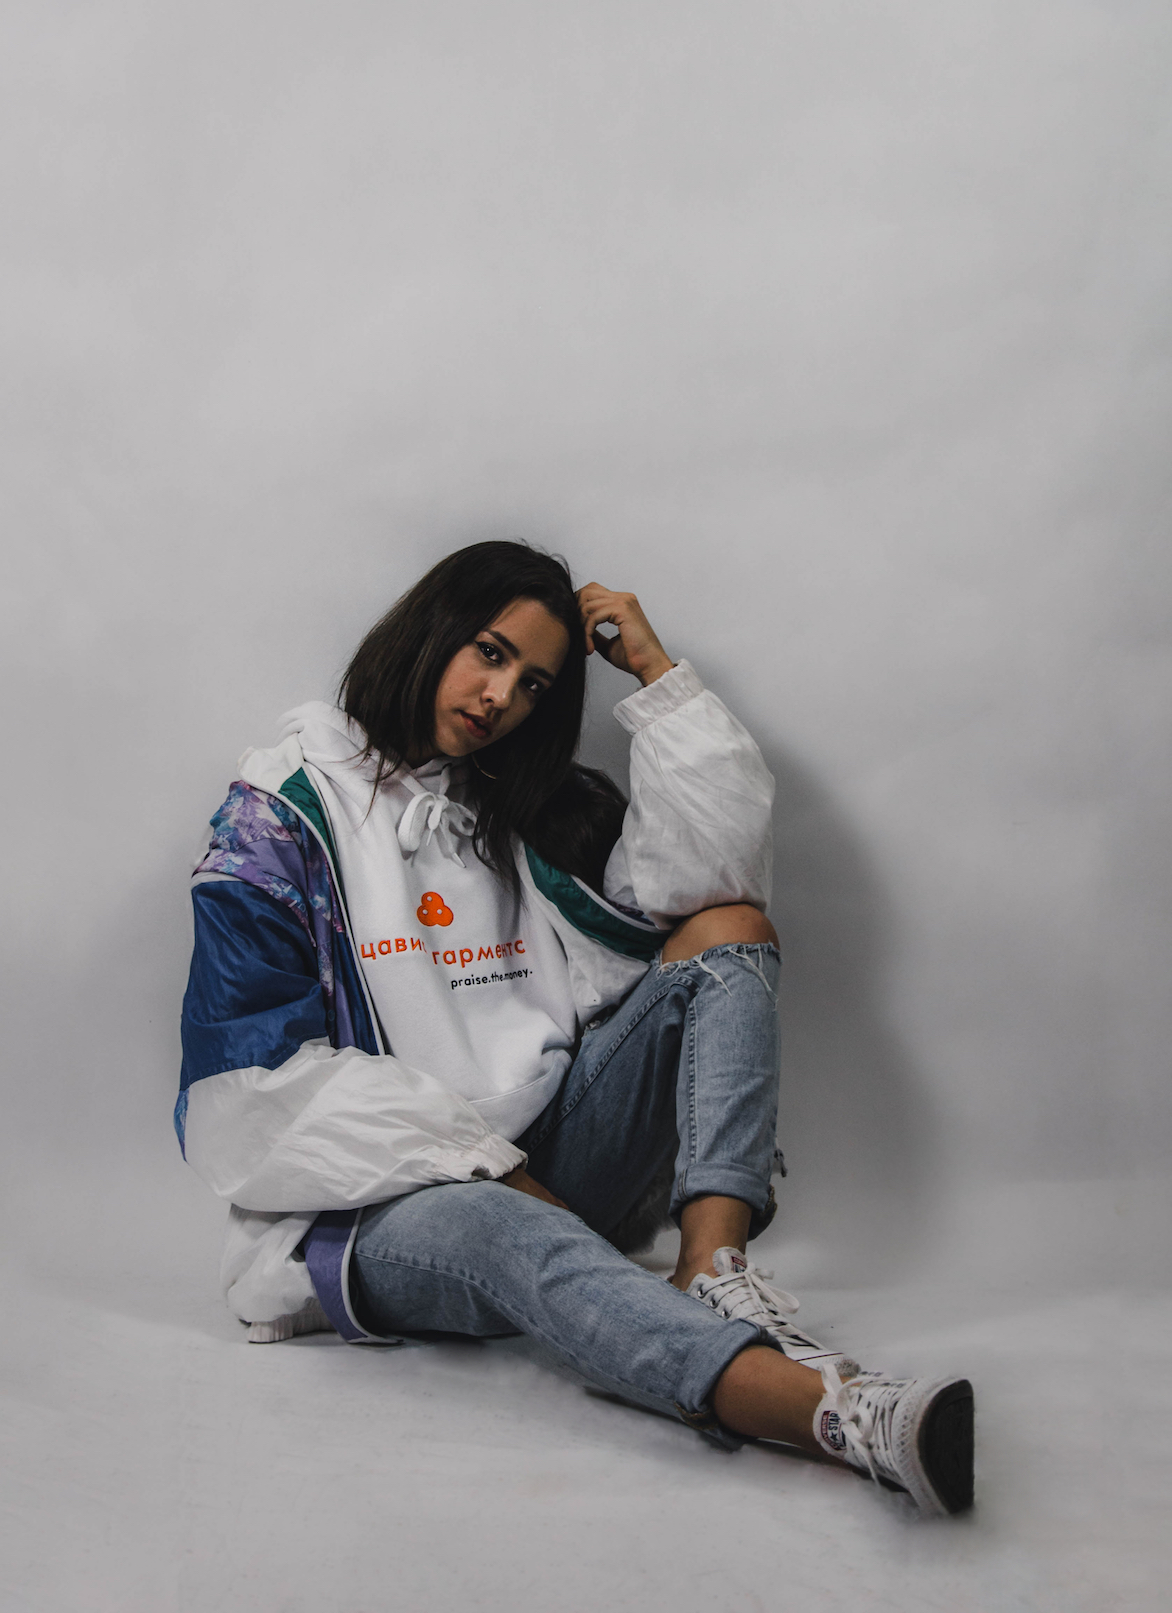
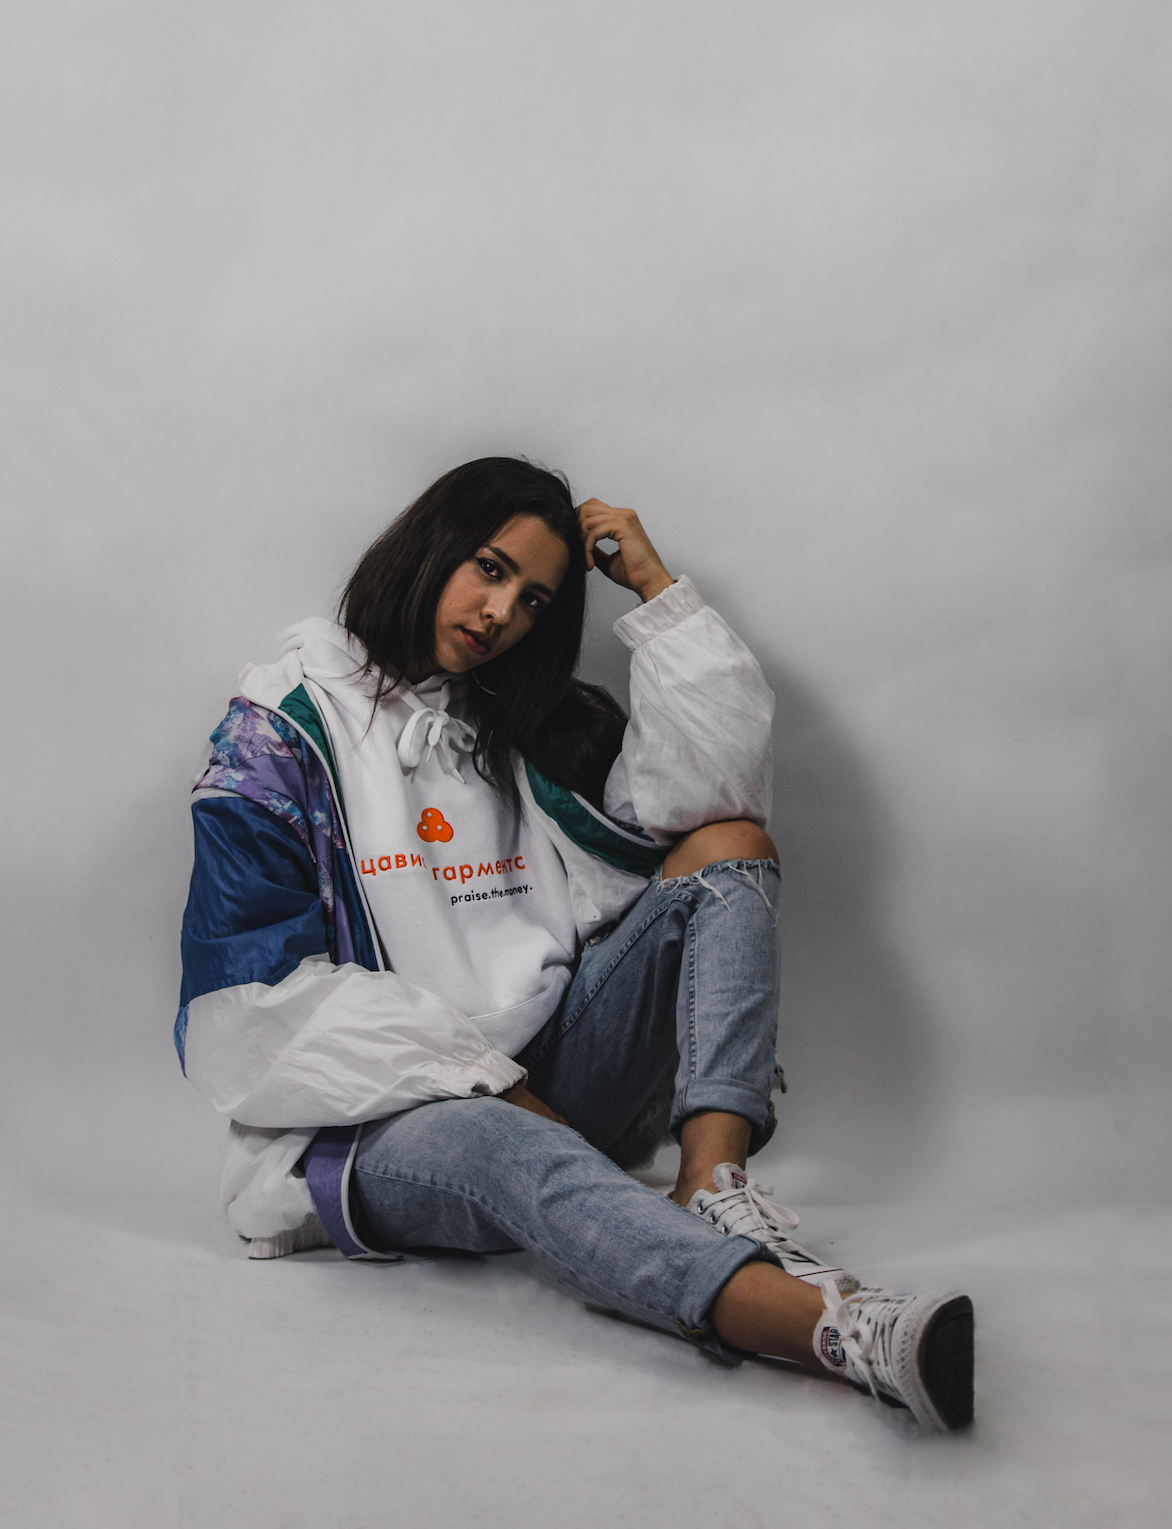
feat: Optimize images, add GA tracker, fix some texts

Changed region(s): [[0.1229, 0.2767, 0.7986, 0.9222], [0.7986, 0.9222, 0.8294, 0.9529], [0.7986, 0.83, 0.8294, 0.8607]]

diff --git a/templates/views/index.html b/templates/views/index.html
@@ -39,8 +39,8 @@
 					<h3 class="about-title">KIM JESTEŚMY?</h3>
 				</div>
 				<div class="about-sidetext">
-					<p class="about-text">Jesteśmy grupą młodych ludzi z ambicjami, którzy chcą dać Wam wyjątkowe, zaprojektowane przez nas ubrania.<br>
-					Chcemy przekazać Wam nasze idee i pokazać wyjątkowe pomysły. Pragniemy podzielić się z Wami trochę innym spojrzeniem na świat i sprawić, by to, co oczywiste, stało się bardziej nieoczywiste.</p>
+					<p class="about-text">Jesteśmy zespołem ludzi z ambicjami, którzy chcą dać Wam wyjątkowe, zaprojektowane przez nas ubrania.<br>
+						Chcemy przekazać Wam nasze idee i pokazać wyjątkowe pomysły. Pragniemy podzielić się z Wami nieco innym spojrzeniem na świat i sprawić, by to, co oczywiste, stało się bardziej nieoczywiste.</p>
 				</div>
 			</div>
 		</div>
@@ -51,15 +51,15 @@
 					<h3 class="about-title">DLACZEGO WARTO KUPIĆ NASZ PRODUKT?</h3>
 				</div>
 				<div class="about-sidetext">
-					<p class="about-text">Nasze ubrania nie tylko są szyte w Polsce z najwyższej jakości materiałów, ale też starannie przez nas samych projektowane. <br>
-						To coś więcej niż zwykłe paski materialu - to są emocje, idee, sposób patrzenia, a nawet pewien styl życia. <br>
-					    Dlatego właśnie nie ma lespzego sposobu na wyrażenie siebie samego, niż poprzez Caviar Garments.</p>
+					<p class="about-text">Nasze ubrania nie tylko są szyte w Polsce z dokładnie wyselekcjonowanych materiałów, ale też starannie przez nas samych projektowane.
+						To coś więcej niż zwykłe paski materialu - to przeżycia, emocje, idee, sposób patrzenia, a nawet pewien styl życia.<br>
+						Dlatego właśnie nie ma lespszego sposobu na wyrażenie siebie samego, niż poprzez Caviar Garments. Mamy nadzieję, że znajdziecie u nas swój produkt idealny.</p>
 				</div>
 			</div>
 		</div>
 
 		<img src="../../images/horse-bottom.jpg" alt="" class="end-photo">
-		<h4 class="end-title">DOŁĄCZ DO KOLEKTYWU. <br> ZOBACZ NAJWYŻSZZEJ JAKOŚCI UBRANIA W NASZYM <a class="title-link" href="./sklep">SKLEPIE</a></h4>
+		<h4 class="end-title">DOŁĄCZ DO KOLEKTYWU. <br> DOSTRZEŻ UBRANIA CAVIAR GARMENTS Z WŁASNEJ, WYJĄTKOWEJ PERSPEKTYWY W NASZYM <a class="title-link" href="./sklep">SKLEPIE</a></h4>
 		
 	</div>
 {% endblock %}

diff --git a/templates/views/layouts/default.html b/templates/views/layouts/default.html
@@ -31,6 +31,16 @@
 
 	{# Add any other template-specific HEAD tags by extending the head block #}
 	{% block head %}{% endblock %}
+
+	<!-- Global site tag (gtag.js) - Google Analytics -->
+	<script async src="https://www.googletagmanager.com/gtag/js?id=UA-125658294-1"></script>
+	<script>
+		window.dataLayer = window.dataLayer || [];
+		function gtag(){dataLayer.push(arguments);}
+		gtag('js', new Date());
+
+		gtag('config', 'UA-125658294-1');
+	</script>
 </head>
 
 
